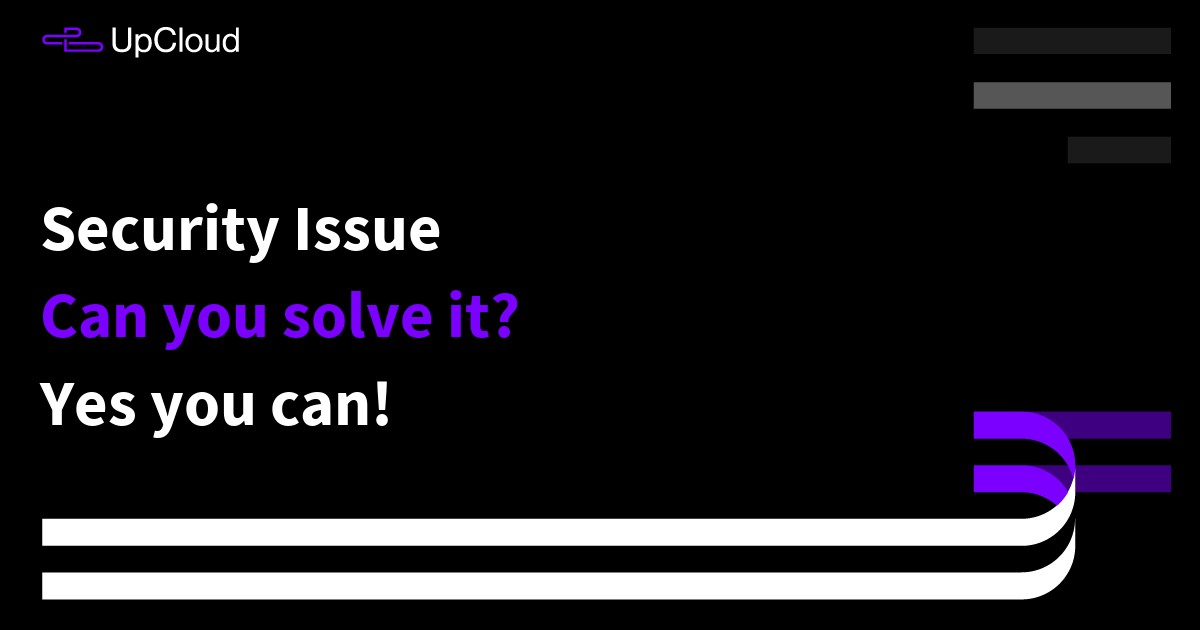
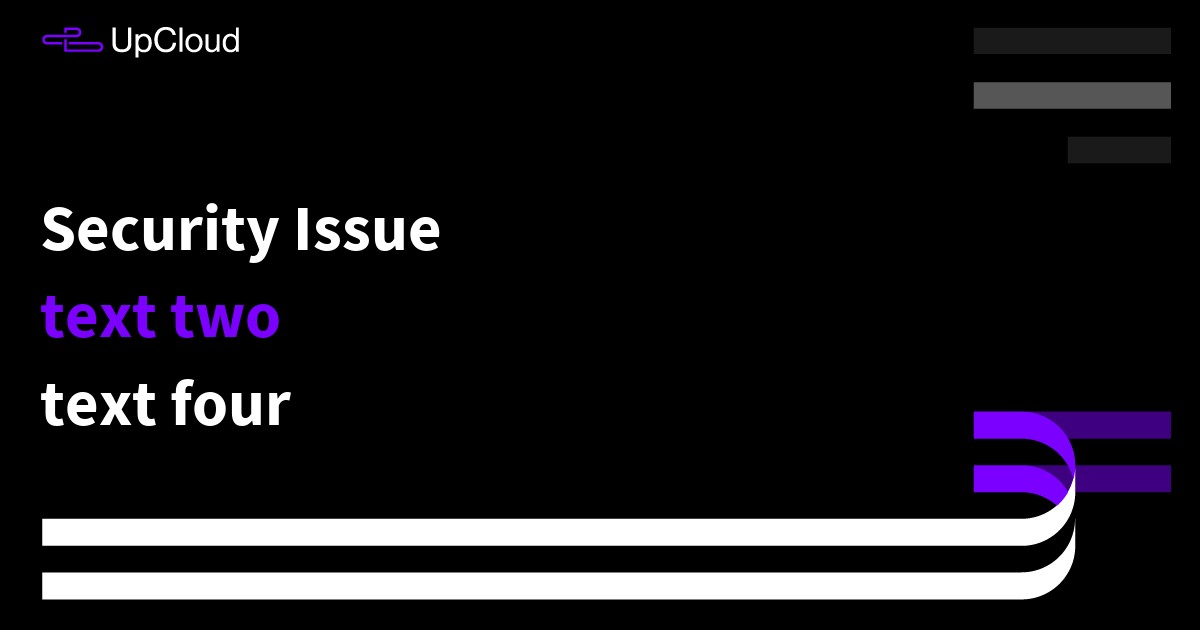
feature: dynamic lines

Changed region(s): [[0.0308, 0.4524, 0.4317, 0.573], [0.0308, 0.6032, 0.3392, 0.6937]]

diff --git a/text-over-image.php b/text-over-image.php
@@ -194,38 +194,108 @@ function handle_form($id)
 	$line_two = $_POST['line-two'];
 	$line_three = $_POST['line-three'];
 
-	// Add styled text to image
-	$text1 = new \NMC\ImageWithText\Text($line_one, 1, 1280);
-	$text1->align = 'left';
-	$text1->color = 'FFFFFF';
-	$text1->font = $font_path;
-	$text1->lineHeight = 87.5;
-	$text1->size = 65;
-	$text1->startX = 40;
-	$text1->startY = (630/2) - 65 - (87.5);
-	$image->addText($text1);
+	if($line_one!="" &&  $line_two == "" && $line_three=="")
+	{
+		// Add styled text to image
+		$text1 = new \NMC\ImageWithText\Text($line_one, 1, 1280);
+		$text1->align = 'left';
+		$text1->color = 'FFFFFF';
+		$text1->font = $font_path;
+		$text1->lineHeight = 87.5;
+		$text1->size = 65;
+		$text1->startX = 40;
+		$text1->startY = (630/2) - (65);
+		$image->addText($text1);
+	}
+	elseif($line_one!="" &&  $line_two != "" && $line_three =="")
+    {
+		// Add styled text to image
+		$text1 = new \NMC\ImageWithText\Text($line_one, 1, 1280);
+		$text1->align = 'left';
+		$text1->color = 'FFFFFF';
+		$text1->font = $font_path;
+		$text1->lineHeight = 87.5;
+		$text1->size = 65;
+		$text1->startX = 40;
+		$text1->startY = (630/2) - 65 - (87.5/2);
+		$image->addText($text1);
 
-	// Add another styled text to image
-	$text2 = new \NMC\ImageWithText\Text($line_two, 1, 1280);
-	$text2->align = 'left';
-	$text2->color = '7b00ff';
-	$text2->font = $font_path;
-	$text2->lineHeight = 87.5;
-	$text2->size = 65;
-	$text2->startX = 40;
-	$text2->startY = (630/2) - 65;
-	$image->addText($text2);
+		// Add another styled text to image
+		$text2 = new \NMC\ImageWithText\Text($line_two, 1, 1280);
+		$text2->align = 'left';
+		$text2->color = '7b00ff';
+		$text2->font = $font_path;
+		$text2->lineHeight = 87.5;
+		$text2->size = 65;
+		$text2->startX = 40;
+		$text2->startY = (630/2) - 65 + (87.5/2);
+		$image->addText($text2);
+	}
+	elseif($line_one!="" &&  $line_two != "" && $line_three!="")
+    {
+		$text1 = new \NMC\ImageWithText\Text($line_one, 1, 1280);
+		$text1->align = 'left';
+		$text1->color = 'FFFFFF';
+		$text1->font = $font_path;
+		$text1->lineHeight = 87.5;
+		$text1->size = 65;
+		$text1->startX = 40;
+		$text1->startY = (630/2) - 65 - (87.5);
+		$image->addText($text1);
 
-	$text2 = new \NMC\ImageWithText\Text($line_three, 1, 1280);
-	$text2->align = 'left';
-	$text2->color = 'FFFFFF';
-	$text2->font = $font_path;
-	$text2->lineHeight = 87.5;
-	$text2->size = 65;
-	$text2->startX = 40;
-	$text2->startY = (630/2) - 65 + 87.5;
-	$image->addText($text2);
-	// Render image
+		// Add another styled text to image
+		$text2 = new \NMC\ImageWithText\Text($line_two, 1, 1280);
+		$text2->align = 'left';
+		$text2->color = '7b00ff';
+		$text2->font = $font_path;
+		$text2->lineHeight = 87.5;
+		$text2->size = 65;
+		$text2->startX = 40;
+		$text2->startY = (630/2) - 65;
+		$image->addText($text2);
+
+		$text2 = new \NMC\ImageWithText\Text($line_three, 1, 1280);
+		$text2->align = 'left';
+		$text2->color = 'FFFFFF';
+		$text2->font = $font_path;
+		$text2->lineHeight = 87.5;
+		$text2->size = 65;
+		$text2->startX = 40;
+		$text2->startY = (630/2) - 65 + 87.5;
+		$image->addText($text2);	
+	}
+	// // Add styled text to image
+	// $text1 = new \NMC\ImageWithText\Text($line_one, 1, 1280);
+	// $text1->align = 'left';
+	// $text1->color = 'FFFFFF';
+	// $text1->font = $font_path;
+	// $text1->lineHeight = 87.5;
+	// $text1->size = 65;
+	// $text1->startX = 40;
+	// $text1->startY = (630/2) - 65 - (87.5);
+	// $image->addText($text1);
+
+	// // Add another styled text to image
+	// $text2 = new \NMC\ImageWithText\Text($line_two, 1, 1280);
+	// $text2->align = 'left';
+	// $text2->color = '7b00ff';
+	// $text2->font = $font_path;
+	// $text2->lineHeight = 87.5;
+	// $text2->size = 65;
+	// $text2->startX = 40;
+	// $text2->startY = (630/2) - 65;
+	// $image->addText($text2);
+
+	// $text2 = new \NMC\ImageWithText\Text($line_three, 1, 1280);
+	// $text2->align = 'left';
+	// $text2->color = 'FFFFFF';
+	// $text2->font = $font_path;
+	// $text2->lineHeight = 87.5;
+	// $text2->size = 65;
+	// $text2->startX = 40;
+	// $text2->startY = (630/2) - 65 + 87.5;
+	// $image->addText($text2);
+	// // Render image
 	$image->render(ABSPATH.'wp-content/plugins/text-over-image/admin/img/share_edited_'.$id.'.jpg');
 
 	// Upload to medial library
